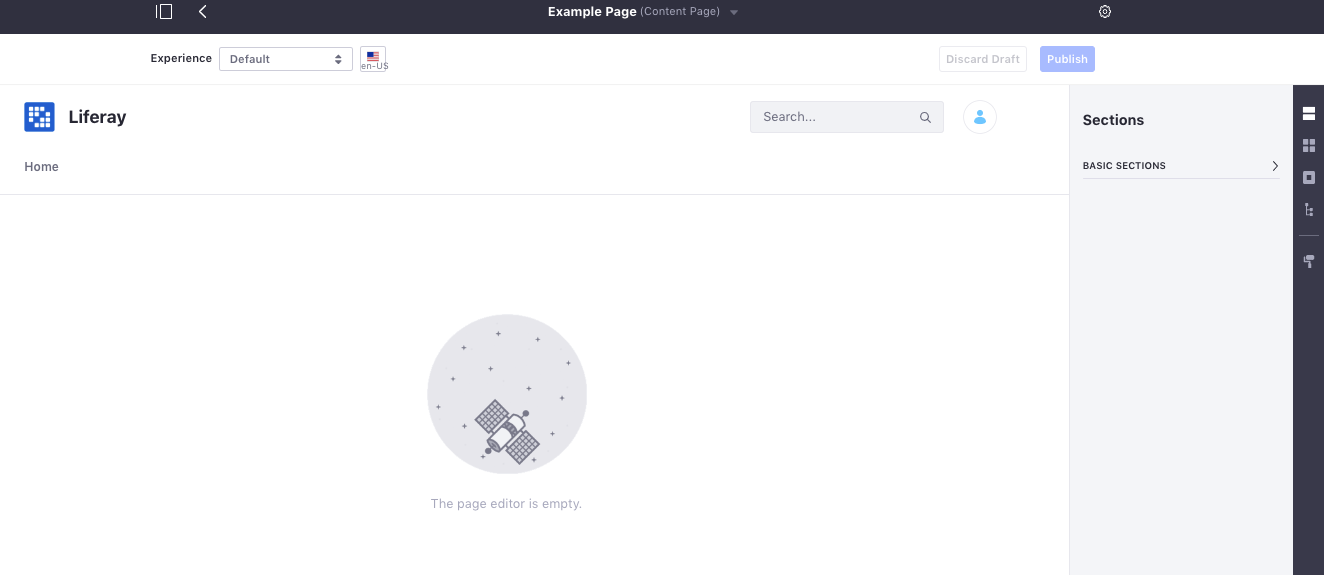
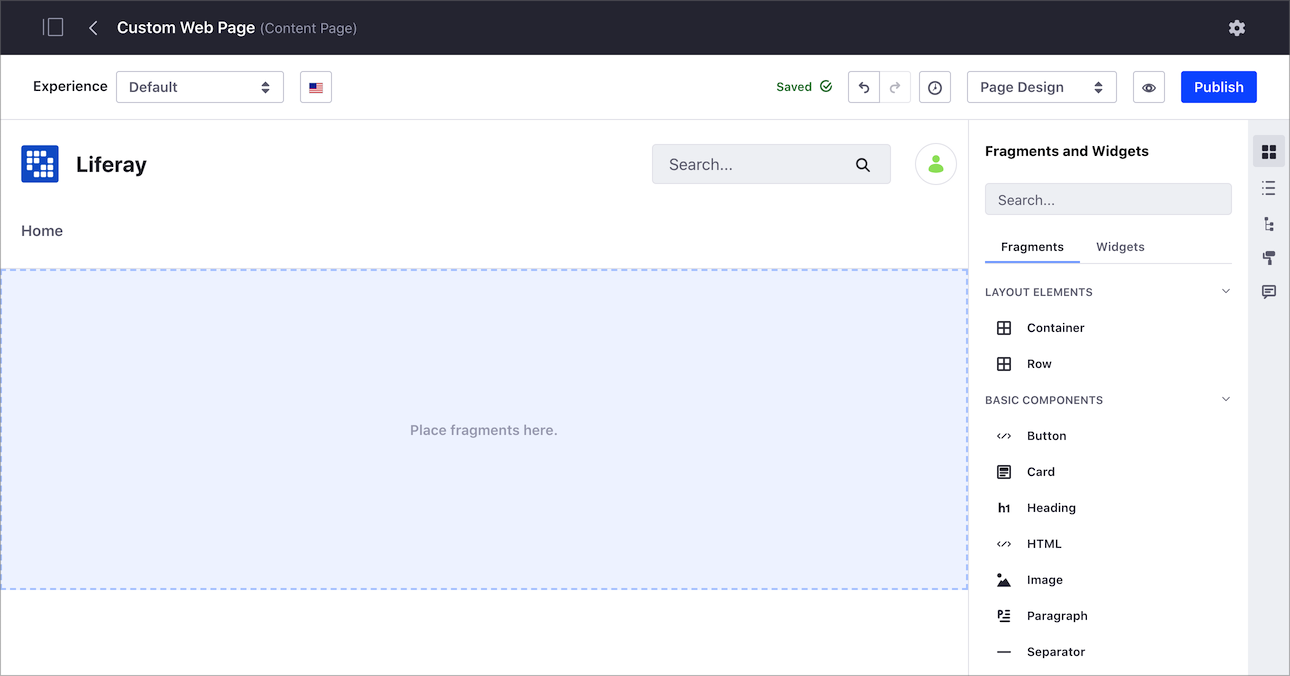
Update Building Content Pages. First draft.

diff --git a/docs/dxp/7.x/en/site-building/creating-pages/building-and-managing-content-pages/building-content-pages.md b/docs/dxp/7.x/en/site-building/creating-pages/building-and-managing-content-pages/building-content-pages.md
@@ -64,6 +64,11 @@ Content from here applies to 7.3 but needs UI update
        In progress work on a Content Page is automatically saved.
     ```
 
+1. You can revert any action using the undo or redo buttons, or you can return to a previous version of your edits using the History button.
+
+    ![Revert your changes using the Undo, Redo, and History buttons.](./building-content-pages/images/17.png)
+
+1. To preview your Content Page, click the *Preview* button (![Preview](../../../images/icon-preview.png)).
 1. Click the *Publish* button in the top right to make the updates available to the live page.
 
 ## Configuring Elements on a Content Page
